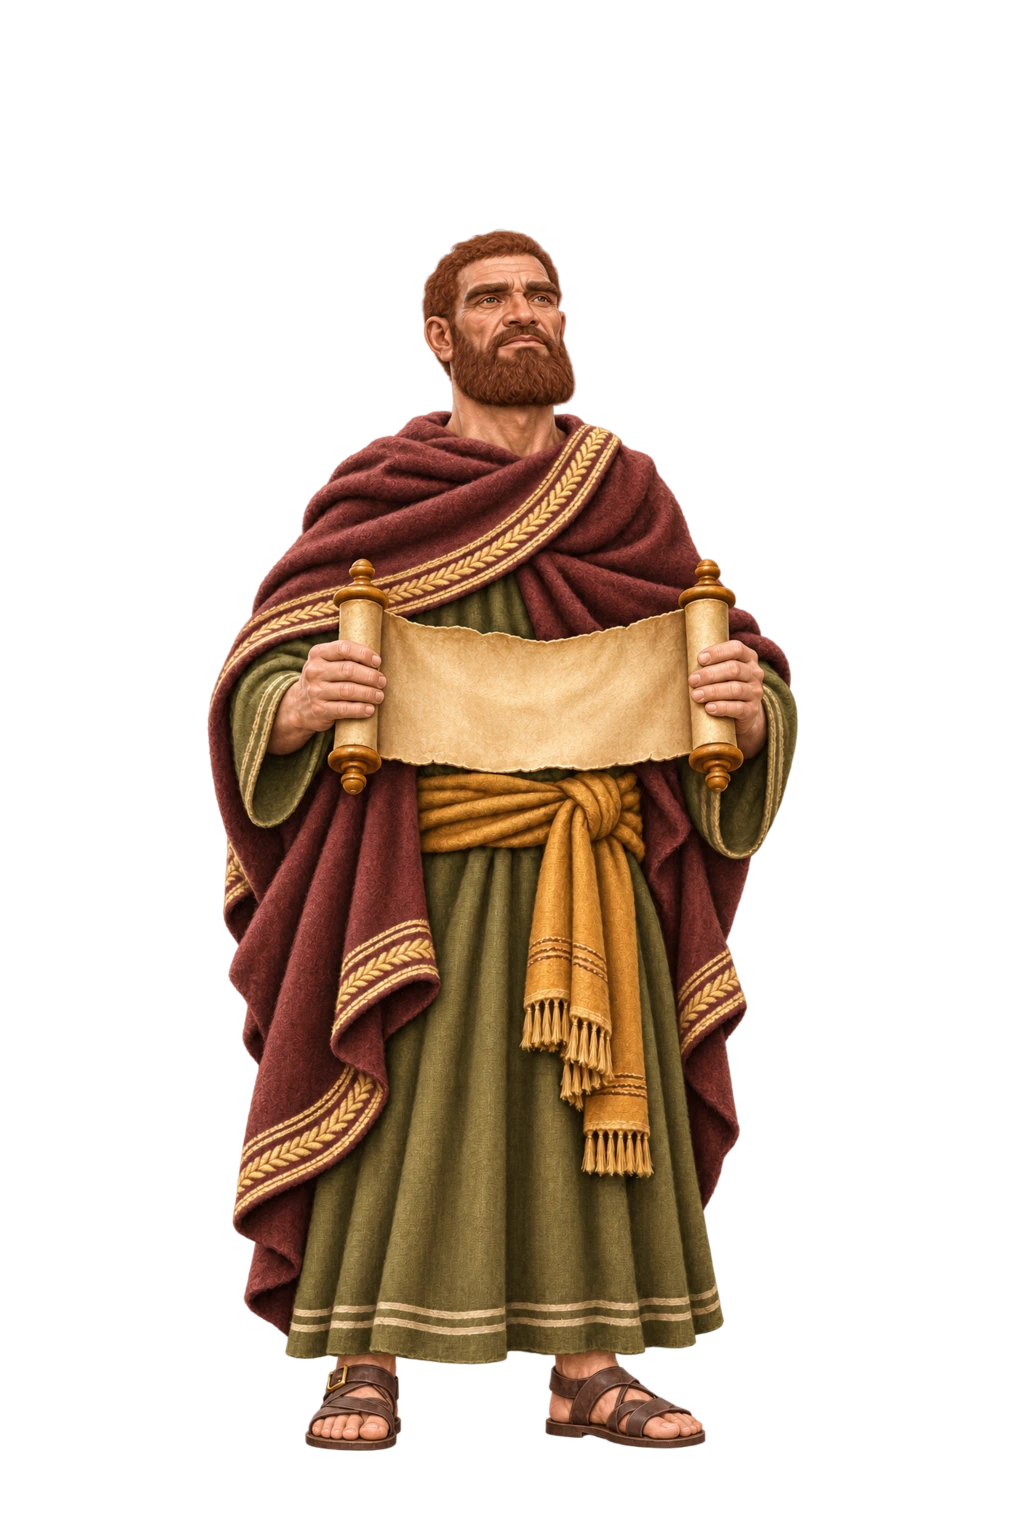
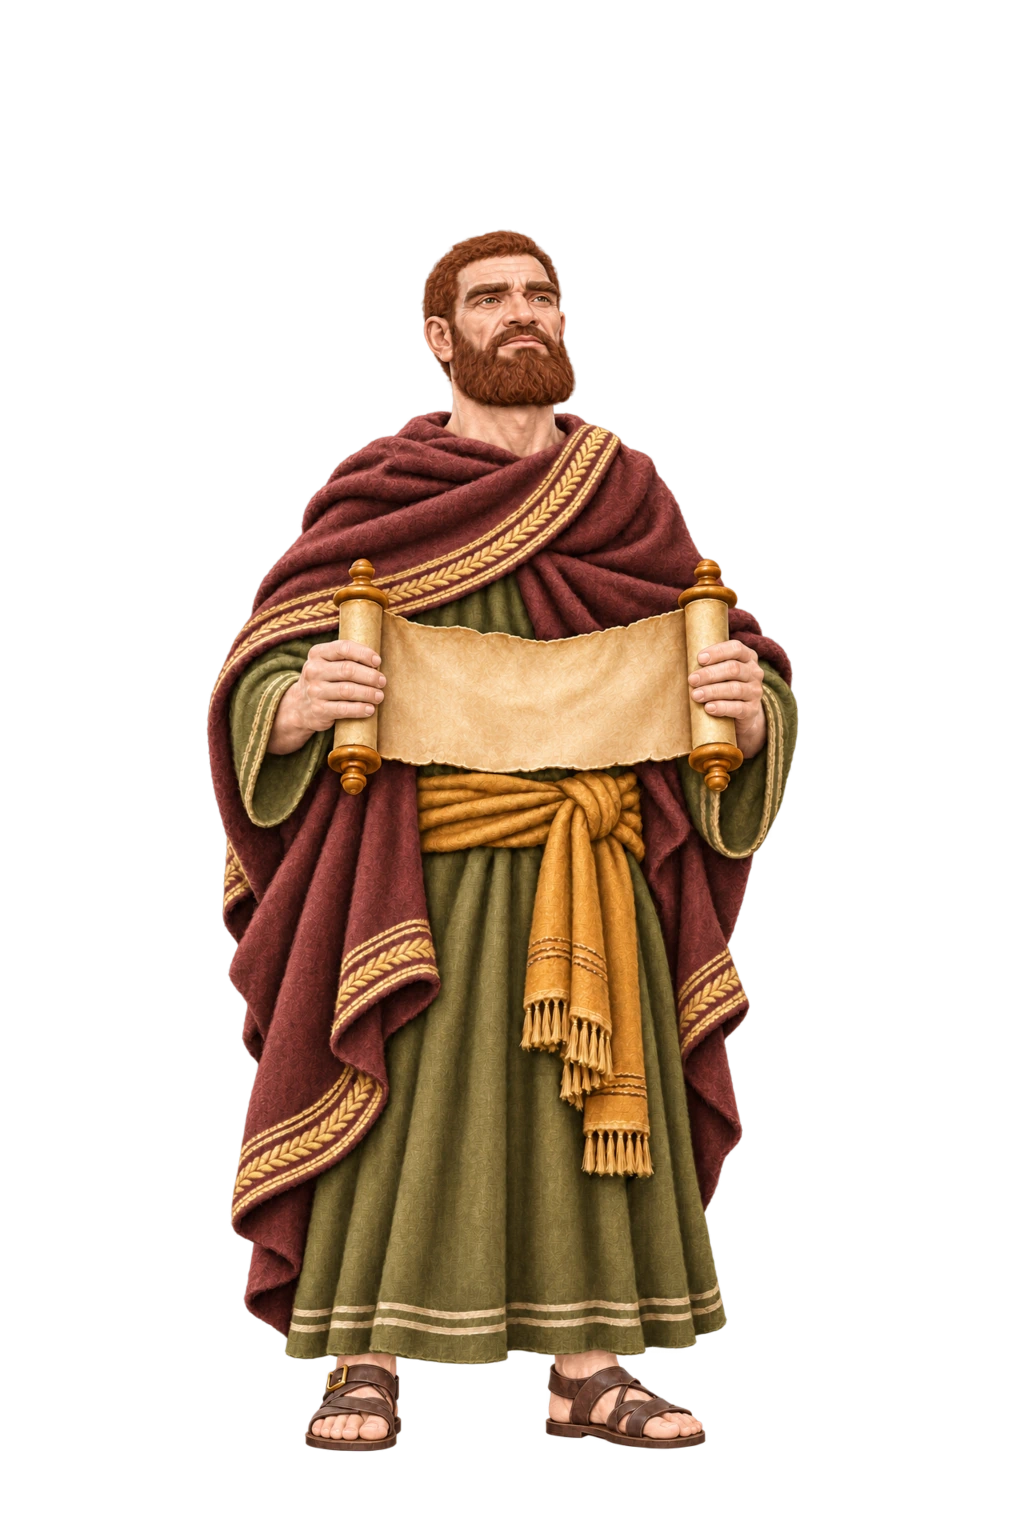
Aplica S13_v2 e S14_v2: tons de Malaquias, Marta e Gemarias (estilo 3)
Claude-Session: https://claude.ai/code/session_01ShwRuBXYkz4meuq65H5Vn5

diff --git a/docs/skins/entregas/S14/PROMPTS.md b/docs/skins/entregas/S14/PROMPTS.md
@@ -388,3 +388,19 @@ FINAL EDGE CHECK: full body from hair crown to complete sandal bottoms and all p
 DEEP PIGMENT PRIORITY: face/neck/hands have truly deep main skin midtones in a dark-brown family (#805034 for skin5, #603C28 for skin6), controlled small neutral highlights. Do not make the dominant skin medium orange/caramel. It must be visibly deeper than the medium3/4 catalog family.
 MARTA LONG-WAVY PRIORITY: completely REMOVE the copper braided crown and bun. Unbraided natural long BROWN S-wave hair, flowing coherent loose waves, no plaits anywhere. Same face and whole outfit.
 ```
+
+# Revisão S14_v2
+
+Ferramenta integrada ImageGen, uma edição por pintura. Image1 é o alvo exato; Image2 é somente pigmento aprovado(Jônatas3 para tom1; Raabe1 para tom6); Image3 é o estilo médio preservado da mesma skin, para comparação. Não copiar o rosto das referências.
+
+## epico_marta · estilo3 · correção de pigmento
+
+~~~text
+Use case: identity-preserve. Asset: ONE complete premium PAINTED2.5D Jornada Biblica avatar. EDIT ONLY Image1, the exact style3 target. Keep its own facial bone structure, apparent age, expression, eye details, all hair/beard shape and color, full outfit colors/design/textures, two connected arms and two natural hands, props/hand contacts, pose, body proportions and framing unchanged. Change ONLY the PIGMENT of ALL exposed skin: forehead, face, ears, neck, chest, arms, hands and exposed feet. No global color grade. Image2 is ONLY an approved SKIN-PIGMENT reference, never an identity, sex, hair, costume, pose, object or background reference. Image3 is ONLY the medium style2 of THIS same skin, for contrast; Image1 is the SOLE identity/outfit/pose target. MANDATORY: skin6 VERY DEEP DARKEST DARK BROWN, matching Image2 Raabe1's approved complexion family. Target currently looks MEDIUM and must become substantially DARKER, with dominant deep cocoa/ebony-brown skin midtones in #533323 family and restrained neutral highlights. Clearly darker than medium skin3 in Image3 and darker than catalog deep skin5; not caramel, copper, orange, medium brown or light chocolate. Keep facial features readable, subtle warm undertones and natural skin texture, never hide the face in black or flatten it into a black silhouette. KEEP her exact own adult FEMALE face, gentle expression, long unbraided brown WAVY hair, dusky-blue dress, ivory apron, sage mantle and brown belt, ONE earthen jug with ONE handle and exactly two hands(one under base, one gripping handle), pose and complete sandals. Do NOT borrow Raabe's face, braids, earrings, purple robe, cord or other features.  Preserve exactly the same full-body1024x1536 painting with entire hands/feet/props unclipped and a TRUE RGBA TRANSPARENT canvas, all unused pixels alpha0. No background, floor, halo, haze, vignette, board, lettering, watermark or extra person. Preserve compact coherent hair edges, sharp textile details and painterly modeled volume. This is skin pigment correction only; do not redraw another person or change clothing.
+~~~
+
+## raro_gemarias · estilo3 · correção de pigmento
+
+~~~text
+Use case: identity-preserve. Asset: ONE complete premium PAINTED2.5D Jornada Biblica avatar. EDIT ONLY Image1, the exact style3 target. Keep its own facial bone structure, apparent age, expression, eye details, all hair/beard shape and color, full outfit colors/design/textures, two connected arms and two natural hands, props/hand contacts, pose, body proportions and framing unchanged. Change ONLY the PIGMENT of ALL exposed skin: forehead, face, ears, neck, chest, arms, hands and exposed feet. No global color grade. Image2 is ONLY an approved SKIN-PIGMENT reference, never an identity, sex, hair, costume, pose, object or background reference. Image3 is ONLY the medium style2 of THIS same skin, for contrast; Image1 is the SOLE identity/outfit/pose target. MANDATORY: skin6 VERY DEEP DARKEST DARK BROWN, matching Image2 Raabe1's approved complexion family. Target currently looks MEDIUM and must become substantially DARKER, with dominant deep cocoa/ebony-brown skin midtones in #533323 family and restrained neutral highlights. Clearly darker than medium skin3 in Image3 and darker than catalog deep skin5; not caramel, copper, orange, medium brown or light chocolate. Keep facial features readable, subtle warm undertones and natural skin texture, never hide the face in black or flatten it into a black silhouette. KEEP exact own mature MALE face, same large nose/eyes/listening expression, LONG STRAIGHT DARK-BROWN scalp hair, exact small dark-brown CHIN GOATEE and short curved moustache, cheeks without beard. Keep gray robe, ivory/teal mantle, maroon belt, ONE closed tied scroll in one hand and the other empty listening hand, pose and full feet. Do NOT borrow Raabe's feminine face/body, braids, earrings, purple robe, red cord or any other feature.  Preserve exactly the same full-body1024x1536 painting with entire hands/feet/props unclipped and a TRUE RGBA TRANSPARENT canvas, all unused pixels alpha0. No background, floor, halo, haze, vignette, board, lettering, watermark or extra person. Preserve compact coherent hair edges, sharp textile details and painterly modeled volume. This is skin pigment correction only; do not redraw another person or change clothing.
+~~~

diff --git a/docs/skins/entregas/S13/PROMPTS.md b/docs/skins/entregas/S13/PROMPTS.md
@@ -367,3 +367,13 @@ REFERENCE ROLES: Image1 is the EDIT TARGET, exact style1 of THIS skin; retain th
 SIDE PART: clearly SHORT hair, combed from a visible side part. NOT long hair or tiny braids.
 FINAL EDGE CHECK: full body from hair crown to complete sandal bottoms and all props have at least24px true transparent canvas clearance. Exactly two complete connected arms and two coherent hands. No extra/severed fingers or floating support hands. Skin, hair and beard colors follow this exact style; no automatic gray. Preserve the profile requirements for clean-shaven faces or moustache/goatee shapes in EVERY style.
 ```
+
+# Revisão S13_v2
+
+Ferramenta integrada ImageGen, uma edição por pintura. Image1 é o alvo exato; Image2 é somente pigmento aprovado(Jônatas3 para tom1; Raabe1 para tom6); Image3 é o estilo médio preservado da mesma skin, para comparação. Não copiar o rosto das referências.
+
+## raro_malaquias · estilo3 · correção de pigmento
+
+~~~text
+Use case: identity-preserve. Asset: ONE complete premium PAINTED2.5D Jornada Biblica avatar. EDIT ONLY Image1, the exact style3 target. Keep its own facial bone structure, apparent age, expression, eye details, all hair/beard shape and color, full outfit colors/design/textures, two connected arms and two natural hands, props/hand contacts, pose, body proportions and framing unchanged. Change ONLY the PIGMENT of ALL exposed skin: forehead, face, ears, neck, chest, arms, hands and exposed feet. No global color grade. Image2 is ONLY an approved SKIN-PIGMENT reference, never an identity, sex, hair, costume, pose, object or background reference. Image3 is ONLY the medium style2 of THIS same skin, for contrast; Image1 is the SOLE identity/outfit/pose target. MANDATORY: skin1 FAIR PALE IVORY-PEACH. The target is currently too rosy/tan and too close to the medium skin3 in Image3. Make a STRONG visible lightening into the PALEST skin1 family, comparable to Image2 Jonatas3. Main fair face/hand midtones in a neutral light ivory-peach #F6D7BF family, pale neutral highlights, natural soft shadows; NEVER leave dominant skin medium orange, copper, rosy tan or brown. Keep elder wrinkles/pores and facial modeling; do not make an opaque white mask or erase age. His scalp remains naturally SHORT deep AUBURN, beard and brows remain AUBURN, not blond or gray. Keep olive robe, wine-brown mantle, ochre sash, ONE open BLANK scroll held by both hands exactly as target. Image3 medium3 remains untouched and must clearly be darker than corrected3.  Preserve exactly the same full-body1024x1536 painting with entire hands/feet/props unclipped and a TRUE RGBA TRANSPARENT canvas, all unused pixels alpha0. No background, floor, halo, haze, vignette, board, lettering, watermark or extra person. Preserve compact coherent hair edges, sharp textile details and painterly modeled volume. This is skin pigment correction only; do not redraw another person or change clothing.
+~~~

diff --git a/docs/skins/entregas/S14/LEIA-ME.md b/docs/skins/entregas/S14/LEIA-ME.md
@@ -1,4 +1,4 @@
-# Jornada Bíblica · S14
+# Jornada Bíblica · S14_v2
 
 6 skins completas × 3 estilos = **18 pinturas** no 2.5D pintado aprovado. Fonte: branch claude/kind-bell-fuk4e4, commit 693f4ef. Briefing: LOTES.md; contrato: TEMPORADA-1-EXODO.md §2.
 
@@ -38,3 +38,11 @@ Cada personagem tem somente a apresentação do próprio sexo, na raiz do seu ID
 Conferir ZIP e .zip.sha256 de cada lote, somas, arte, diferenças de pele, rostos, mãos e objetos. Aplicar pelo fluxo oficial scripts/skins-add-lot.mjs S14 e scripts/gen-skin-art.mjs. Rodar unitários, SQL, skins-audit, marco1/journey/lobby/fixes e Supabase local oficial limpo. Atualizar plano/STATUS/LOTES/PARA-O-CODEX e publicar no mesmo branch com commit e resultado completo.
 
 O Codex alterou somente arte e arquivos de entrega locais, sem migração ou banco. A integração oficial fica com o Claude. O usuário autorizou S13/S14 em 24/11/2026. As 12 adaptações foram aprovadas e registradas no commit 693f4ef antes da produção. Revisão, integração e testes oficiais com o Claude continuam necessários. Até dois lotes nesta entrega: S13/S14.
+
+## Revisão solicitada no §33, commit15ff838
+
+Marta e Gemarias estilo3: pele muito escura tom6, usando Raabe estilo1 como referência de pigmento. Rostos, penteados, barba de Gemarias, trajes, jarra e rolo, mãos e poses preservados.
+
+Somente 4 WebPs (base e @2x dos estilos3 solicitados) mudaram; os outros44assets, inclusive todas as6fichas e6ícones, são byte a byte idênticos à primeira entrega.
+
+Sem alteração de IDs, catálogo, sexo, estilos, regras, app ou banco. Âncoras e dimensões mantidas; as novas pinturas foram conferidas e calibradas com o mesmo contrato. As capturas320/412 dos alvos, galerias de corpos/rostos e comparação antes/depois foram atualizadas. Capturas dos outros personagens permanecem idênticas. ZIPs originais imutáveis. Enviar este pacote completo v2 com seu novo .zip.sha256; não criar migração para a troca de arte. Aguardar o ciclo base15ff838 terminar antes de aplicar, então conferir unitários, auditoria e fluxo fixes no novo commit.

diff --git a/docs/skins/entregas/S13/LEIA-ME.md b/docs/skins/entregas/S13/LEIA-ME.md
@@ -1,4 +1,4 @@
-# Jornada Bíblica · S13
+# Jornada Bíblica · S13_v2
 
 6 skins completas × 3 estilos = **18 pinturas** no 2.5D pintado aprovado. Fonte: branch claude/kind-bell-fuk4e4, commit 693f4ef. Briefing: LOTES.md; contrato: TEMPORADA-1-EXODO.md §2.
 
@@ -38,3 +38,11 @@ Cada personagem tem somente a apresentação do próprio sexo, na raiz do seu ID
 Conferir ZIP e .zip.sha256 de cada lote, somas, arte, diferenças de pele, rostos, mãos e objetos. Aplicar pelo fluxo oficial scripts/skins-add-lot.mjs S13 e scripts/gen-skin-art.mjs. Rodar unitários, SQL, skins-audit, marco1/journey/lobby/fixes e Supabase local oficial limpo. Atualizar plano/STATUS/LOTES/PARA-O-CODEX e publicar no mesmo branch com commit e resultado completo.
 
 O Codex alterou somente arte e arquivos de entrega locais, sem migração ou banco. A integração oficial fica com o Claude. O usuário autorizou S13/S14 em 24/11/2026. As 12 adaptações foram aprovadas e registradas no commit 693f4ef antes da produção. Revisão, integração e testes oficiais com o Claude continuam necessários. Até dois lotes nesta entrega: S13/S14.
+
+## Revisão solicitada no §33, commit15ff838
+
+Malaquias estilo3: pele clara tom1, usando Jônatas estilo3 como referência de pigmento. Cabelo curto e barba ruivos, rosto idoso, manto, túnica, rolo e pose preservados.
+
+Somente 2 WebPs (base e @2x dos estilos3 solicitados) mudaram; os outros46assets, inclusive todas as6fichas e6ícones, são byte a byte idênticos à primeira entrega.
+
+Sem alteração de IDs, catálogo, sexo, estilos, regras, app ou banco. Âncoras e dimensões mantidas; as novas pinturas foram conferidas e calibradas com o mesmo contrato. As capturas320/412 dos alvos, galerias de corpos/rostos e comparação antes/depois foram atualizadas. Capturas dos outros personagens permanecem idênticas. ZIPs originais imutáveis. Enviar este pacote completo v2 com seu novo .zip.sha256; não criar migração para a troca de arte. Aguardar o ciclo base15ff838 terminar antes de aplicar, então conferir unitários, auditoria e fluxo fixes no novo commit.

diff --git a/docs/skins/PARA-O-CODEX.md b/docs/skins/PARA-O-CODEX.md
@@ -756,3 +756,24 @@ S13/S14 ainda não foram pintados.
 - **S14_v2, `epico_marta` estilo-3 e `raro_gemarias` estilo-3** (ambos tom 6): estão em tom médio, mais claros até que o Aspenaz estilo-2 (tom 5). O tom 6 é o mais escuro do catálogo. Escurecer até a referência Raabe estilo-1. Comparação em `docs/skins/entregas/S14/Tons_a_corrigir.png`.
 
 Mantenha rosto, cabelo, barba, traje, objetos, IDs e âncoras. Mande os pacotes S13 e S14 completos com os SHA-256 atualizados, sem migração.
+
+### 33.1 S13_v2 e S14_v2: correções aprovadas (25/11/2026)
+
+**Ciclo base de S13/S14 fechado e verde (`15ff838`):**
+- 138 testes unitários, 592 verificações SQL e auditoria com as 169 skins pintadas.
+- Fluxos marco1, journey, lobby e fixes.
+- 577 verificações no Supabase local, incluindo as compras simultâneas com saldo final 0.
+
+**S13_v2**
+- O ZIP de 18.849.279 bytes confere com o `.zip.sha256` (`8c53c42a…`) e as 69 somas conferem.
+- Mudou só o estilo-3 de Malaquias (base e @2x), agora em tom 1 claro.
+- Brilho da testa (média dos pixels de pele): 168, contra 120 no estilo-2 (tom 3).
+
+**S14_v2**
+- O ZIP de 18.778.798 bytes confere com o `.zip.sha256` (`e930d1fc…`) e as 69 somas conferem.
+- Mudaram só os estilos-3 de Marta e Gemarias (base e @2x), agora em tom 6 escuro, perto da referência Raabe estilo-1.
+- Brilho medido (testa e pescoço): Marta 88 e 50, Gemarias 93 e 48.
+
+Os demais arquivos são idênticos, incluindo as 12 fichas e os 12 ícones. Integração sem migração nem mudança de catálogo, fichas ou regras.
+
+**S13/S14 encerrados. Próximo: S15 e S16.**
